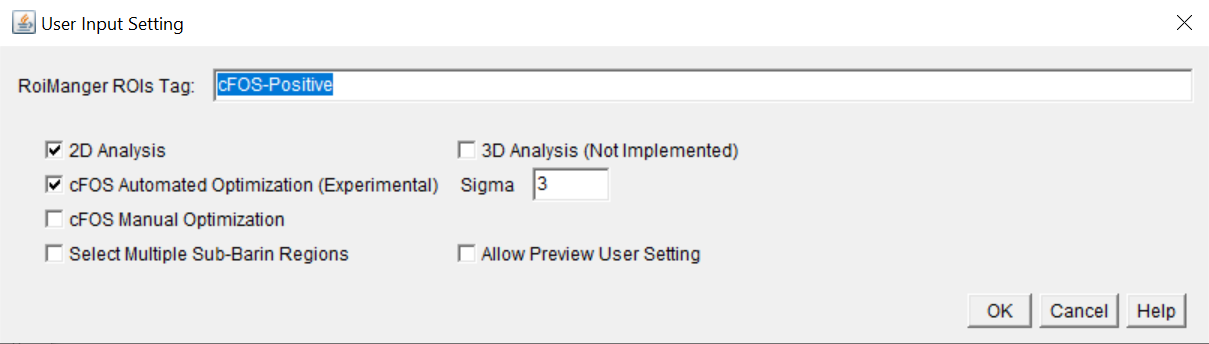
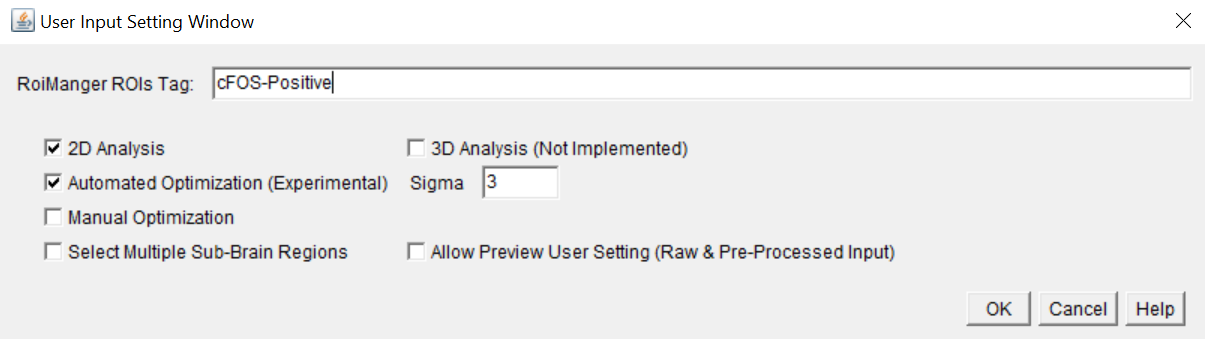
Update README

diff --git a/README.md b/README.md
@@ -2,7 +2,12 @@
 
 <p align="center">
   <img width="924" height="412" src="static/cover.jpg">
+  <img.resize {
+              max-width:auto;
+              max-height:100%;
+              }
 </p
+
 
 The *Quanty-cFOS.ijm* is an ImageJ/Fiji tool developed to count specifically Fos/*c-fos* labelled cells in fixed brain slices or more generally to count cell markers in 2D fluorescent images or on Maximum Intensity Projections (MIP) in an unbiased manner. For flexibility reasons this tool is implemented as a macro-set (IJ1) for Image/Fiji (tested on version 1.53s and above)
 
@@ -13,7 +18,7 @@ The Quanty-cFOS tool uses two different segmentation methods:
 
 The user can decide which method is more suitable to process the input raw images. It is recommended to start with the StarDist 2D *Versatile* model and switch to the ilastik pixel classification workflow only if the detection is not accurate enough or the structures of interest are not convex
 
-The novelty of the Quanty-cFOS counting tool is the *z-score* intensity analysis used to compute the intensity cutoff (*cFOS Automated Optimization*). The algorithm computes the intensity and the standard deviation of each detected cell on the raw images and uses the normalized distance between each single cell intensity and the mean population intensity to calculate the intensity cutoff. Cells above the intesity cutoff are counted positve, below the cutoff - negative
+The novelty of the Quanty-cFOS counting tool is the *z-score* intensity analysis used to compute the intensity cutoff (*Automated Optimization*). The algorithm computes the intensity and the standard deviation of each detected cell on the raw images and uses the normalized distance between each single cell intensity and the mean population intensity to calculate the intensity cutoff. Cells above the intesity cutoff are counted positve, below the cutoff - negative
 
 The workflow consists of two major steps: 
 
@@ -22,7 +27,7 @@ The workflow consists of two major steps:
 
 
 
-## Quanty-cFOS: Automated Intensity Count (Experimental)
+## Quanty-cFOS: Automated Optimization (Experimental)
 
 Fos/*c-fos* staining is known to work differently depending on many experimental factors that might include fixation, antibody type and batch, section thickness... Fos/*c-fos* neurons manual count is extremely time consuming and can differ depending on the decision criteria in particular when is performed manually by visually annotating cells. Fos/*c-fos* automated intensity count can be used to significantly speed up the counting process and further reduce human counts bias
 
@@ -61,19 +66,19 @@ The user can input the range of standard deviations (*sigma*) to decide the opti
 
    - In case of large images increase the *StarDist Tails Number*
 
-   - *Batch Analysis* and *Optimization Steps* allow to decide how many images will interactively pop up to the user and in case of *cFOS Automated Optimization* (see below), the number of images used to compute the intensity threshold cutoff for Fos/*c-fos* positive and negative cells. A recommendation for starting is to leave the box unchecked and proceed to the next step by clicking the *OK* button
+   - *Batch Analysis* and *Optimization Steps* allow to decide how many images will interactively pop up to the user and in case of *Automated Optimization* (see below), the number of images used to compute the intensity threshold cutoff for Fos/*c-fos* positive and negative cells. A recommendation for starting is to leave the box unchecked and proceed to the next step by clicking the *OK* button
 
 <p align="center">
-  <img width="483" height="334" src="static/main_setting.png">
+  <img width="683" height="534" src="static/main_setting.png">
 </p>
-
 
 6. The *Input Dialog Box* pops up and the user can specify the input directory with the raw images to process. The input raw images need to have one channel as MIP or z-stacks. In case of a z-stack, the Quanty-cFOS computes the MIP and starts the 2D cell segmentation. To get familiar with the Quanty-cFOS tool you can use the sample images provided together with the tool (`\samples`)
 6. The *User Input Setting Window* pops up. Please check the *Help* to get familiar with the different options. *Tip*: starting with the default setting can give already decent counts
 
 <p align="center">
-  <img width="623" height="187" src="static/user_input_setting.png">
+  <img width="983" height="300" src="static/user_input_setting.png">
 </p>
+
 8. Press *OK*, the first image will be processed and the *User Input Setting Window* pops up again, every time a new image is processed. To automate further the counting and do not display the *User Input Setting* dialog box for each image the user can choose in the *Main Setting Windows* the *Batch Analysis* and set the *Optimization Steps* to the number of images needed to compute the intensity cutoff (*e.g.:* 10 *Optimization Steps* =  first 10 Images are used to compute the intensity cutoff)
 9. The Quanty-cFOS output is a folder with sub-folders for each raw image processed. Each sub-folder has the same name of the input image and contains:
 
